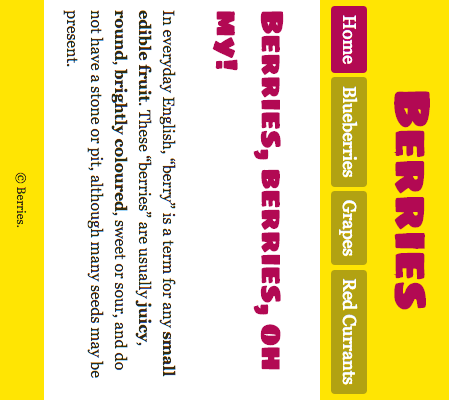
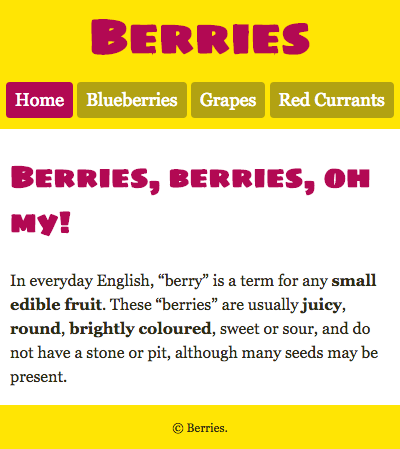
added different pages.

diff --git a/red-currants.html b/red-currants.html
@@ -1,0 +1,36 @@
+<!DOCTYPE html>
+<html lang="en-ca">
+
+  <head>
+    <meta charset="utf-8">
+    <title>Berries</title>
+    <meta name="viewport" content="width=device-width,initial-scale=1">
+    <link href="https://fonts.googleapis.com/css?family=Sigmar+One" rel="stylesheet">
+    <link href="css/main.css" rel="stylesheet">
+  </head>
+
+  <body>
+
+    <header>
+      <h1>Berries</h1>
+      <nav>
+        <ol>
+          <li><a href="current-screen">Home</a></li>
+          <li><a href="">Blueberries</a></li>
+          <li><a href="">Grapes</a></li>
+          <li><a href="">Red Currants</a></li>
+        </ol>
+      </nav>
+    </header>
+
+    <main>
+      <h2>Berries, berries, oh my!<h2>
+      <p>In everyday English, “berry” is a term for any <b>small</b> <b>edible</b> <b>fruit</b>. These “berries” are usually <b>juicy</b>, <b>round</b>, <b>brightly</b> <b>coloured</b>, sweet or sour, and do not have a stone or pit, although many seeds may be present.</p>
+    </main>
+
+    <footer>
+      <div>© Berries.</div>
+    </footer>
+
+  </body>
+</html>

diff --git a/blueberries.html b/blueberries.html
@@ -1,0 +1,36 @@
+<!DOCTYPE html>
+<html lang="en-ca">
+
+  <head>
+    <meta charset="utf-8">
+    <title>Berries</title>
+    <meta name="viewport" content="width=device-width,initial-scale=1">
+    <link href="https://fonts.googleapis.com/css?family=Sigmar+One" rel="stylesheet">
+    <link href="css/main.css" rel="stylesheet">
+  </head>
+
+  <body>
+
+    <header>
+      <h1>Berries</h1>
+      <nav>
+        <ol>
+          <li><a href="">Home</a></li>
+          <li><a href="">Blueberries</a></li>
+          <li><a href="">Grapes</a></li>
+          <li><a href="">Red Currants</a></li>
+        </ol>
+      </nav>
+    </header>
+
+    <main>
+      <h2>Berries, berries, oh my!<h2>
+      <p>In everyday English, “berry” is a term for any <b>small</b> <b>edible</b> <b>fruit</b>. These “berries” are usually <b>juicy</b>, <b>round</b>, <b>brightly</b> <b>coloured</b>, sweet or sour, and do not have a stone or pit, although many seeds may be present.</p>
+    </main>
+
+    <footer>
+      <div>© Berries.</div>
+    </footer>
+
+  </body>
+</html>

diff --git a/grapes.html b/grapes.html
@@ -1,0 +1,36 @@
+<!DOCTYPE html>
+<html lang="en-ca">
+
+  <head>
+    <meta charset="utf-8">
+    <title>Berries</title>
+    <meta name="viewport" content="width=device-width,initial-scale=1">
+    <link href="https://fonts.googleapis.com/css?family=Sigmar+One" rel="stylesheet">
+    <link href="css/main.css" rel="stylesheet">
+  </head>
+
+  <body>
+
+    <header>
+      <h1>Berries</h1>
+      <nav>
+        <ol>
+          <li><a href="">Home</a></li>
+          <li><a href="">Blueberries</a></li>
+          <li><a href="">Grapes</a></li>
+          <li><a href="">Red Currants</a></li>
+        </ol>
+      </nav>
+    </header>
+
+    <main>
+      <h2>Berries, berries, oh my!<h2>
+      <p>In everyday English, “berry” is a term for any <b>small</b> <b>edible</b> <b>fruit</b>. These “berries” are usually <b>juicy</b>, <b>round</b>, <b>brightly</b> <b>coloured</b>, sweet or sour, and do not have a stone or pit, although many seeds may be present.</p>
+    </main>
+
+    <footer>
+      <div>© Berries.</div>
+    </footer>
+
+  </body>
+</html>

diff --git a/css/main.css b/css/main.css
@@ -1,30 +1,20 @@
 html {
-  box-sizing: border-box;
-  margin:
-  padding: 0.2em 0.5em 0.3em;
-
-  font-family: Georgia serif;
-
+ box-sizing: border-box;
 }
 
 *, *::before, *::after {
  box-sizing:inherit;
+  font-family: Georgia serif;
 }
 
 h1, h2 {
-
   font-family: 'Sigmar One', cursive;
   font-size: 3rem;
   line-height: 1.5;
   color: #cc1465;
-
-  padding: 00 .4em;
-  margin: 00 0.2em;
-
 }
 
 nav ol li, p {
-
   font-style: Georgia serif;
   list-style-type: none;
   font-size: 1.125rem;
@@ -48,22 +38,35 @@ b {
   font-weight: bold;
 }
 
-h1, footer {
+h1, footer, nav {
   background-color: #ffe500;
+  text-align: center;
+
+  margin: 0em 0em 0.0em;
+  padding: 0.2em 0.5em 0.3em;
   }
 
 footer {
   font-weight: lighter;
-  text-align: center;
 }
 
 nav a {
   background-color: #b2a212;
   color: #fff;
   text-decoration: none;
+  border-radius: 4px;
+  margin: 0.3em;
+  padding: 10px;
+}
 
+<!------ Boxes----->
+
+h1 {
+  margin: 0 0 .2em
   padding: 0.2em 0.5em 0.3em;
 }
+
+
 
 
 
